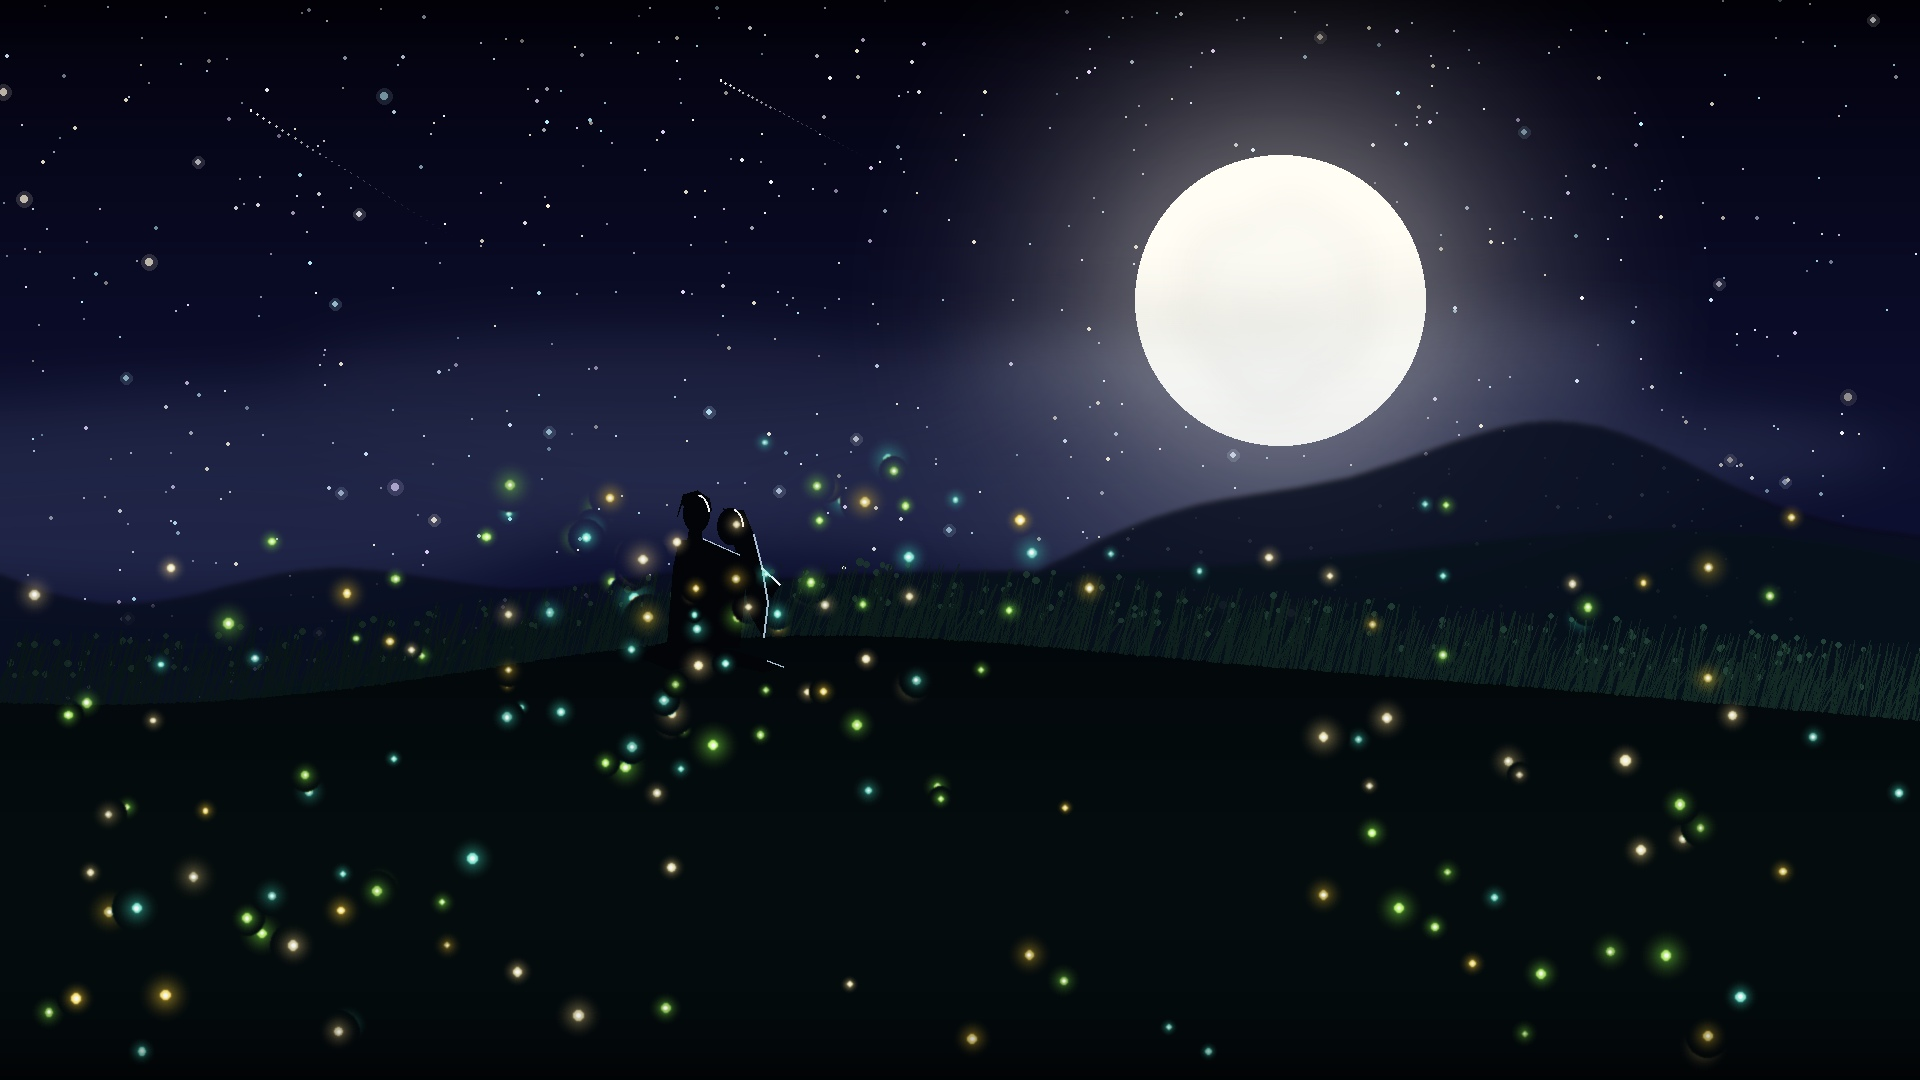
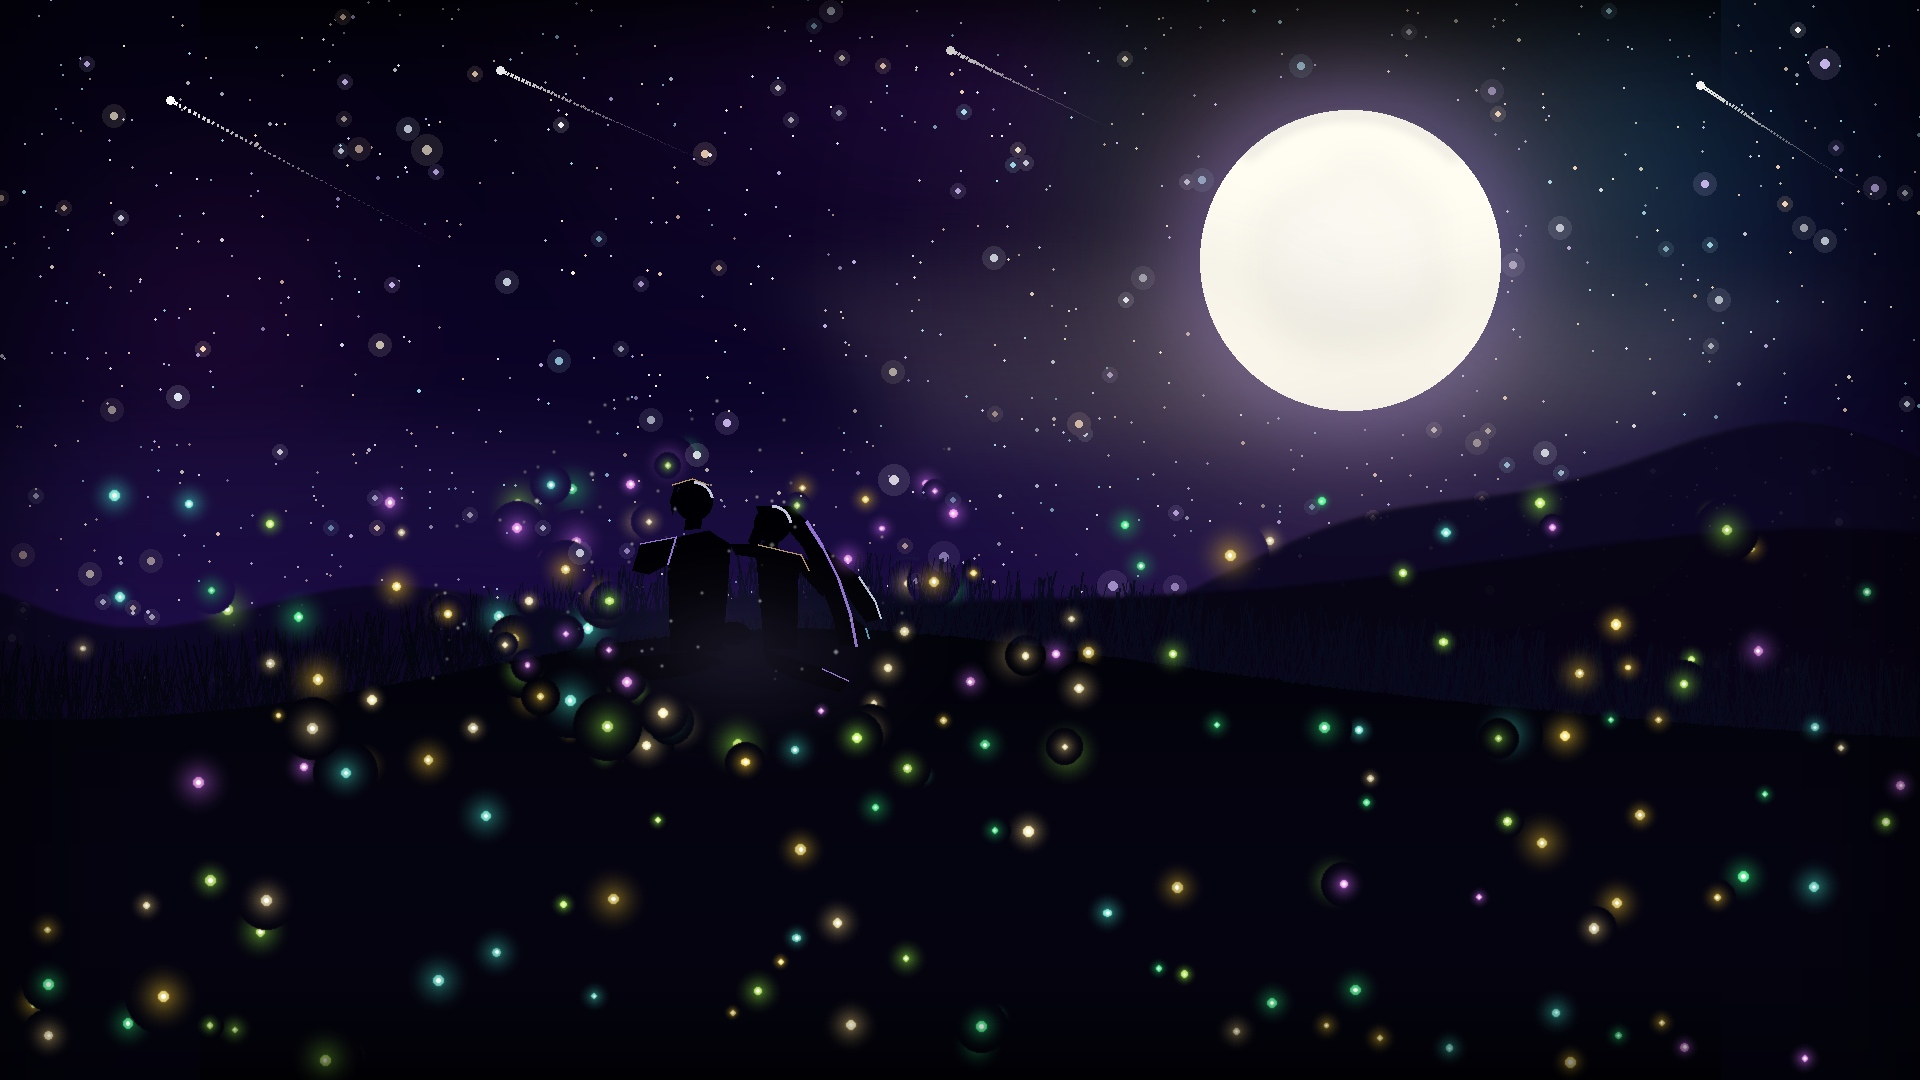
fix: restore page flow (Kolkata→DreamMeadow→Wonders) + cinematic v3 meadow artwork

diff --git a/src/components/KolkataScene/KolkataScene.tsx b/src/components/KolkataScene/KolkataScene.tsx
@@ -32,7 +32,7 @@ function KolkataGlow({ x, y, delay }: { x: number; y: number; delay: number }) {
 
 export function KolkataScene() {
   const scrollToWonders = () => {
-    document.getElementById('section-wonders')?.scrollIntoView({ behavior: 'smooth' });
+    document.getElementById('section-dream-meadow')?.scrollIntoView({ behavior: 'smooth' });
   };
 
   return (
@@ -109,10 +109,10 @@ export function KolkataScene() {
           <span className="px-2 py-0.5 rounded bg-black/40 font-mono text-xs border border-white/30 font-bold">
             SPACE
           </span>
-          <span className="font-bold tracking-wider">RAID THE 7 WONDERS HEIST BOARD [SCROLL DOWN] →</span>
+          <span className="font-bold tracking-wider">DISCOVER THE 8TH WONDER [SCROLL DOWN] →</span>
         </motion.button>
         <div className="font-game text-[11px] text-white/40 tracking-widest">
-          INTERPOL RED NOTICES ACTIVATED · 7 PLANETARY TARGETS UNLOCKED
+          THE ETERNAL DREAM MEADOW · THE UNCOPIABLE WONDER · AWAITS
         </div>
       </div>
     </div>
